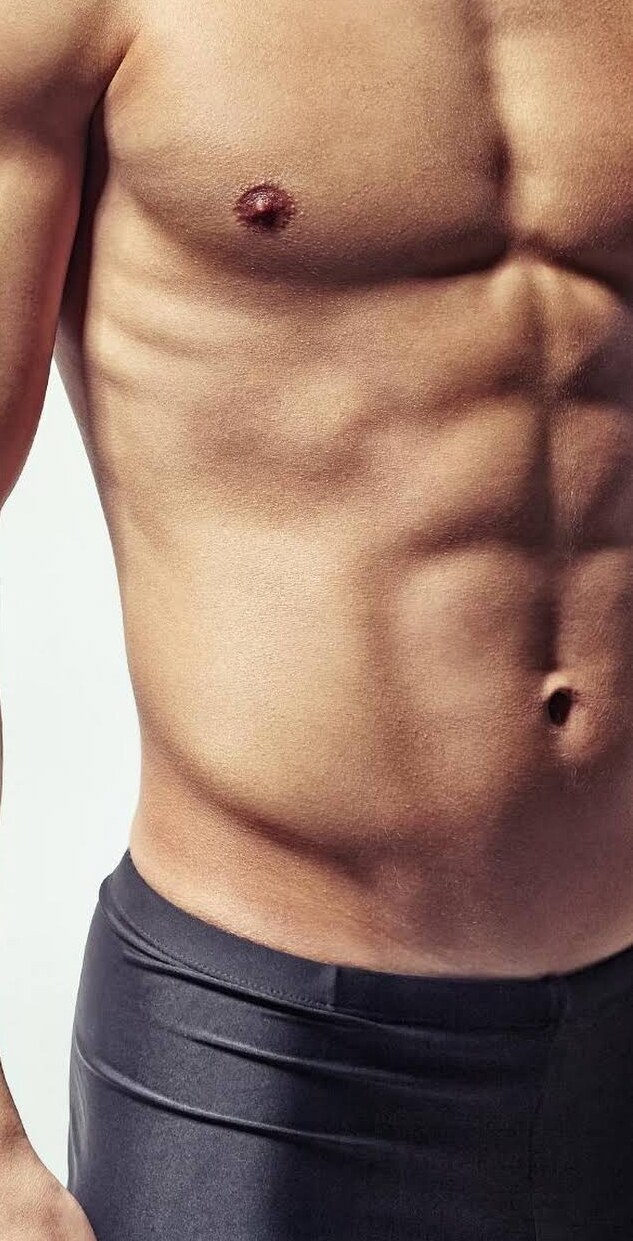
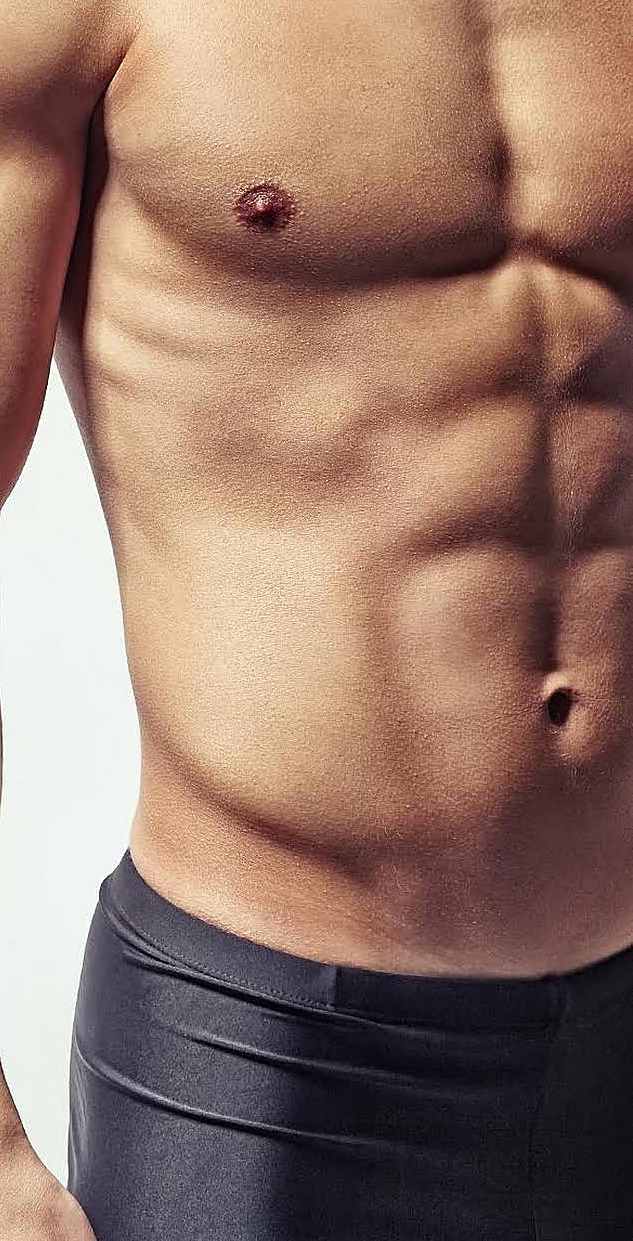
Melhorar a nitidez das fotos do site da Não+Pelo
Troca a foto do Manifesto (arquivo original ampliado) pela foto de praia
de Pirassununga, num espaço menor; reexporta as fotos mais fracas com
nitidez e menos compressão; e serve as imagens em qualidade 90.

Claude-Session: https://claude.ai/code/session_01Dhm4jbgkhzveuQN5TtSiEo

Changed region(s): [[0.3602, 0.1225, 0.4803, 0.1837]]

diff --git a/nao-mais-pelo/app/franquias/page.tsx b/nao-mais-pelo/app/franquias/page.tsx
@@ -38,7 +38,7 @@ export default function FranquiasPage() {
         {/* Hero escuro: promessa de faturamento da página original, com remissão ao aviso legal. */}
         <section aria-labelledby="franquia-titulo" className="grain relative overflow-hidden bg-ink text-bone">
           <div className="absolute inset-0">
-            <Image
+            <Image quality={90}
               src="/img/franquia/loja-5.jpg"
               alt=""
               fill
@@ -153,7 +153,7 @@ export default function FranquiasPage() {
             </div>
             <div className="lg:col-span-5 lg:col-start-8 lg:pt-24">
               <Reveal kind="image" className="relative aspect-[4/5] overflow-hidden">
-                <Image src="/img/franquia/loja-1.jpg" alt="Fachada de vidro de uma unidade Não+Pelo" fill sizes="(min-width: 1024px) 40vw, 100vw" className="object-cover" />
+                <Image quality={90} src="/img/franquia/loja-1.jpg" alt="Fachada de vidro de uma unidade Não+Pelo" fill sizes="(min-width: 1024px) 40vw, 100vw" className="object-cover" />
               </Reveal>
               <p className="eyebrow mt-4 text-stone">Unidade da rede Não+Pelo</p>
             </div>
@@ -186,10 +186,10 @@ export default function FranquiasPage() {
 
             <div className="mt-16 grid gap-6 md:mt-24 md:grid-cols-12 md:gap-8">
               <Reveal kind="image" className="relative aspect-[16/9] overflow-hidden md:col-span-8 md:aspect-auto md:min-h-[26rem]">
-                <Image src="/img/franquia/rennova-sede.jpg" alt="Sede do Grupo Rennova" fill sizes="(min-width: 768px) 64vw, 100vw" className="object-cover saturate-[0.8]" />
+                <Image quality={90} src="/img/franquia/rennova-sede.jpg" alt="Sede do Grupo Rennova" fill sizes="(min-width: 768px) 64vw, 100vw" className="object-cover saturate-[0.8]" />
               </Reveal>
               <Reveal kind="image" delay={150} className="relative aspect-square overflow-hidden md:col-span-4">
-                <Image src="/img/franquia/rennova-equipe.jpg" alt="Equipe do Grupo Rennova reunida em frente à sede" fill sizes="(min-width: 768px) 32vw, 100vw" className="object-cover saturate-[0.8]" />
+                <Image quality={90} src="/img/franquia/rennova-equipe.jpg" alt="Equipe do Grupo Rennova reunida em frente à sede" fill sizes="(min-width: 768px) 32vw, 100vw" className="object-cover saturate-[0.8]" />
               </Reveal>
             </div>
 
@@ -221,7 +221,7 @@ export default function FranquiasPage() {
             {storePhotos.map((p, i) => (
               <li key={p.src} className={`shrink-0 snap-start ${p.w > p.h ? "w-[86vw] md:w-[46vw]" : "w-[64vw] md:w-[26vw]"} ${i % 2 ? "md:mt-20" : ""}`}>
                 <div className="relative overflow-hidden bg-sand" style={{ aspectRatio: `${p.w} / ${p.h}` }}>
-                  <Image src={p.src} alt={p.alt} fill sizes="(min-width: 768px) 46vw, 86vw" className="object-cover saturate-[0.85]" />
+                  <Image quality={90} src={p.src} alt={p.alt} fill sizes="(min-width: 768px) 46vw, 86vw" className="object-cover saturate-[0.85]" />
                 </div>
               </li>
             ))}
@@ -330,7 +330,7 @@ export default function FranquiasPage() {
             </div>
             <div className="flex flex-col gap-8 sm:flex-row sm:items-start lg:col-span-7 lg:col-start-6">
               <Reveal kind="image" className="relative h-40 w-40 shrink-0 overflow-hidden bg-sand">
-                <Image src="/img/lideranca/leonardo-rezende.jpg" alt="Leonardo Rezende" fill sizes="160px" className="object-cover grayscale" />
+                <Image quality={90} src="/img/lideranca/leonardo-rezende.jpg" alt="Leonardo Rezende" fill sizes="160px" className="object-cover grayscale" />
               </Reveal>
               <Reveal delay={120}>
                 <h2 id="lideranca-titulo" className="font-display text-[clamp(2.2rem,4vw,3.5rem)] leading-none">

diff --git a/nao-mais-pelo/components/sections/HomeSections.tsx b/nao-mais-pelo/components/sections/HomeSections.tsx
@@ -45,16 +45,16 @@ export function Manifesto() {
         </div>
 
         <div className="relative lg:col-span-5">
-          <Reveal kind="image" className="relative aspect-[4/5] overflow-hidden lg:ml-auto lg:mt-24 lg:w-[92%]">
-            <Image
-              src="/img/editorial/manifesto-mar.jpg"
-              alt="Mulher sorrindo com as mãos nos cabelos, à beira-mar"
+          <Reveal kind="image" className="relative aspect-[4/5] overflow-hidden lg:ml-auto lg:mt-24 lg:w-[80%]">
+            <Image quality={90}
+              src="/img/pirassununga/praia-leitura.jpg"
+              alt="Mulher lendo um livro deitada na areia, à beira-mar"
               fill
-              sizes="(min-width: 1024px) 38vw, 100vw"
-              className="object-cover object-[82%_30%]"
+              sizes="(min-width: 1024px) 32vw, 100vw"
+              className="object-cover object-[62%_50%]"
             />
           </Reveal>
-          <Reveal delay={300} className="mt-5 flex items-baseline justify-between gap-6 lg:ml-auto lg:w-[92%]">
+          <Reveal delay={300} className="mt-5 flex items-baseline justify-between gap-6 lg:ml-auto lg:w-[80%]">
             <p className="eyebrow shrink-0 text-stone">Madri, 2007</p>
             <p className="font-display text-lg text-ink/80">a marca que revolucionou a depilação no mundo</p>
           </Reveal>
@@ -111,7 +111,7 @@ export function Technology() {
           <div className="relative self-start lg:col-span-8">
             <Reveal kind="image" className="relative aspect-[16/10] overflow-hidden lg:aspect-[16/9]">
               <div data-parallax="36" className="absolute -inset-y-[6%] inset-x-0">
-                <Image
+                <Image quality={90}
                   src="/img/tecnologia/sessao-axila.jpg"
                   alt="Sessão de depilação na axila com o equipamento da Não+Pelo"
                   fill
@@ -137,7 +137,7 @@ export function Technology() {
 
           <div className="lg:col-span-4 lg:pt-32">
             <Reveal kind="image" delay={150} className="relative hidden aspect-[4/5] overflow-hidden lg:block">
-              <Image
+              <Image quality={90}
                 src="/img/pirassununga/sessao-perna-ponteira.jpg"
                 alt="Profissional da Não+Pelo aplicando a ponteira verde na coxa de uma cliente"
                 fill
@@ -242,7 +242,7 @@ export function Differentials() {
               lines={[<span key="a" id="diferenciais-title">Para os mais</span>, <>variados tipos</>, <em key="c">de pele e pelo.</em>]}
             />
             <Reveal kind="image" delay={150} className="relative mt-14 aspect-[17/10] overflow-hidden">
-              <Image
+              <Image quality={90}
                 src="/img/editorial/tons-de-pele.jpg"
                 alt="Quatro mulheres de diferentes tons de pele sorrindo juntas"
                 fill
@@ -372,7 +372,7 @@ export function FirstSession({ index = "07" }: { index?: string }) {
 function FirstSessionArt() {
   return (
     <div className="absolute inset-0 text-bone">
-      <Image
+      <Image quality={90}
         src="/img/pirassununga/liberdade-bracos-abertos.jpg"
         alt="Mulher sorrindo de braços abertos ao sol"
         fill
@@ -398,7 +398,7 @@ export function FranchiseTeaser() {
       <div className="container-x grid gap-14 lg:grid-cols-12 lg:items-center lg:gap-8">
         <div className="relative lg:col-span-5">
           <Reveal kind="image" className="relative aspect-[3/4] overflow-hidden">
-            <Image
+            <Image quality={90}
               src="/img/pirassununga/sala-atendimento.jpg"
               alt="Sala de atendimento da unidade Não+Pelo de Pirassununga, com maca e equipamento"
               fill

diff --git a/nao-mais-pelo/components/sections/TreatmentPage.tsx b/nao-mais-pelo/components/sections/TreatmentPage.tsx
@@ -88,7 +88,7 @@ export function TreatmentPage({ gender }: { gender: Gender }) {
               </div>
             </div>
             <div className="relative h-[62svh] overflow-hidden lg:col-span-6 lg:h-auto">
-              <Image src={c.hero.src} alt={c.hero.alt} fill priority sizes="(min-width: 1024px) 50vw, 100vw" className={`hero-image object-cover ${c.hero.position}`} />
+              <Image quality={90} src={c.hero.src} alt={c.hero.alt} fill priority sizes="(min-width: 1024px) 50vw, 100vw" className={`hero-image object-cover ${c.hero.position}`} />
             </div>
           </div>
         </section>
@@ -127,7 +127,7 @@ export function TreatmentPage({ gender }: { gender: Gender }) {
                 lines={[<span key="a" id="dif-title">Depilação para os mais</span>, <>variados tipos</>, <em key="c">de peles e pelos.</em>]}
               />
               <Reveal kind="image" delay={120} className="relative mt-12 aspect-[4/5] overflow-hidden">
-                <Image src={c.second.src} alt={c.second.alt} fill sizes="(min-width: 1024px) 40vw, 100vw" className={`object-cover ${c.second.position}`} />
+                <Image quality={90} src={c.second.src} alt={c.second.alt} fill sizes="(min-width: 1024px) 40vw, 100vw" className={`object-cover ${c.second.position}`} />
               </Reveal>
             </div>
             <dl className="grid self-start content-start gap-px bg-ink/12 sm:grid-cols-2 lg:col-span-6 lg:col-start-7 lg:mt-48">

diff --git a/nao-mais-pelo/components/ui/TestimonialRail.tsx b/nao-mais-pelo/components/ui/TestimonialRail.tsx
@@ -51,7 +51,7 @@ export function TestimonialRail({ items }: { items: readonly Item[] }) {
           <li key={t.videoId} className={`w-[72vw] shrink-0 snap-start sm:w-[42vw] lg:w-[26vw] xl:w-[22vw] ${i % 2 ? "md:mt-16" : ""}`}>
             <VideoDialog videoId={t.videoId} title={`Depoimento — ${t.name}`} className="group block w-full text-left">
               <span className="relative block aspect-[3/4] overflow-hidden bg-sand">
-                <Image
+                <Image quality={90}
                   src={t.image}
                   alt={`Retrato de ${t.name}, cliente Não+Pelo`}
                   fill

diff --git a/nao-mais-pelo/components/ui/BodyMap.tsx b/nao-mais-pelo/components/ui/BodyMap.tsx
@@ -102,7 +102,7 @@ export function BodyMap({
         <div className={`relative mx-auto aspect-[3/4] w-full max-w-sm overflow-hidden ${dark ? "bg-ink-2" : "bg-sand/60"}`}>
           <div className="absolute inset-x-0 bottom-[3%] top-[5%] flex justify-center">
             <div className="relative h-full" style={{ aspectRatio: `${fig.w} / ${fig.h}` }}>
-              <Image
+              <Image quality={90}
                 key={gender}
                 src={fig.src}
                 alt={fig.alt}

diff --git a/nao-mais-pelo/components/sections/HomeHero.tsx b/nao-mais-pelo/components/sections/HomeHero.tsx
@@ -11,7 +11,7 @@ export function HomeHero() {
   return (
     <section aria-labelledby="hero-title" className="relative bg-bone lg:h-[100svh] lg:min-h-[720px]">
       <div className="relative h-[68svh] min-h-[440px] overflow-hidden lg:absolute lg:inset-0 lg:h-auto">
-        <Image
+        <Image quality={90}
           src="/img/editorial/hero-luz-dourada.jpg"
           alt="Mulher de olhos fechados sob a luz dourada do fim de tarde, com o mar ao fundo"
           fill

diff --git a/nao-mais-pelo/next.config.ts b/nao-mais-pelo/next.config.ts
@@ -7,7 +7,9 @@ const nextConfig: NextConfig = {
   poweredByHeader: false,
   images: {
     formats: ["image/avif", "image/webp"],
-    deviceSizes: [640, 828, 1080, 1280, 1600, 1920],
+    deviceSizes: [640, 828, 1080, 1280, 1600, 1920, 2560],
+    // Fotos em 90: as imagens de origem já são comprimidas, 75 deixava artefatos visíveis.
+    qualities: [75, 90],
   },
   // Endereços do site antigo apontam para as páginas equivalentes.
   async redirects() {
